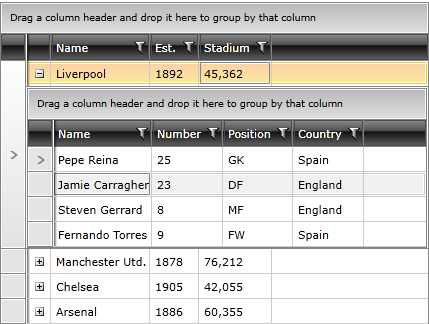
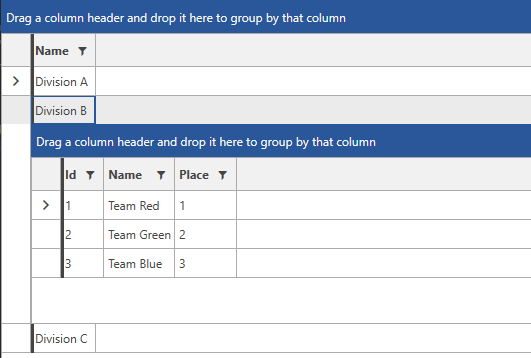
GridView: Updated RowDetailsTemplate article.

diff --git a/controls/radgridview/row-details/template.md b/controls/radgridview/row-details/template.md
@@ -12,28 +12,33 @@ position: 1
 
 The __Row Details__ template is defined through the __RowDetailsTemplate__ property of the __RadGridView__.
 
->tip To learn how to manage the displaying of the __Row Details__ read [this topic]({%slug radgridview-row-details-visibility%}).
+>tip To learn how to manage the displaying of the __Row Details__, read [this topic]({%slug radgridview-row-details-visibility%}).
 	
 ## Basic RowDetails Template
 
-Here is an example for a basic row details template (__Example 1__). You can observe the result in __Figure 1__.
+__Example 1__ shows a basic row details template. You can observe the result in __Figure 1__.
 		
+> The next examples use the __Team__, __Division__ and __DivisionService__ classes defined in Examples 1, 2 and 3 in the following [article]({%slug gridview-building-hierarchical-grid-view%}). The setting of the ItemsSource in Examples 1 and 2 is shown in __Example 3__.
 
-#### __[XAML] Example 1: Definition of Basic RowDetails Template__
+#### __[XAML] Example 1: Basic RowDetails Template__
 
 {{region xaml-radgridview-row-details-template_0}}
-	<telerik:RadGridView x:Name="radGridView"
-	                 RowDetailsVisibilityMode="VisibleWhenSelected">
-	    <telerik:RadGridView.RowDetailsTemplate>
-	        <DataTemplate>
-	            <StackPanel Orientation="Horizontal"
-	                Margin="10,10,10,10">
-	                <TextBlock Text="Stadium Capacity: " />
-	                <TextBlock Text="{Binding StadiumCapacity}" />
-	            </StackPanel>
-	        </DataTemplate>
-	    </telerik:RadGridView.RowDetailsTemplate>
-	    <!--...-->
+	<telerik:RadGridView Name="rowTemplateRadGridView"
+						 AutoGenerateColumns="False"
+						 GroupRenderMode="Flat"
+						 RowDetailsVisibilityMode="VisibleWhenSelected">
+		<telerik:RadGridView.Columns>
+			<telerik:GridViewDataColumn DataMemberBinding="{Binding Name}"/>
+		</telerik:RadGridView.Columns>
+
+		<telerik:RadGridView.RowDetailsTemplate>
+			<DataTemplate>
+				<StackPanel Orientation="Horizontal" Margin="10">
+					<TextBlock Text="ID: " />
+					<TextBlock Text="{Binding Id}" />
+				</StackPanel>
+			</DataTemplate>
+		</telerik:RadGridView.RowDetailsTemplate>
 	</telerik:RadGridView>
 {{endregion}}
 
@@ -43,49 +48,61 @@ __Figure 1:__ Displays the result of the applied __Basic RowDetails Template__.
 
 ## Complex RowDetails Template
 
-Here is an example for a complex row details template (__Example 2__). You can observe the result in __Figure 1__.
+__Example 2__ shows a complex row details template, which contains another RadGridView. You can observe the result in __Figure 2__.
 
 #### __[XAML] Example 2: Definition of Complex RowDetails Template__
 
 {{region xaml-radgridview-row-details-template_1}}
-	<Grid>
-	    <Grid.Resources>
-	        <my:MyViewModel x:Key="MyViewModel"/>
-	        <DataTemplate x:Key="RowDetailsTemplate">
-	            <telerik:RadGridView Name="playersGrid" 
-	                        ItemsSource="{Binding Players}" 
-	                        AutoGenerateColumns="False">
-	                <telerik:RadGridView.Columns>
-	                    <telerik:GridViewDataColumn DataMemberBinding="{Binding Name}"/>
-	                    <telerik:GridViewDataColumn DataMemberBinding="{Binding Number}"/>
-	                    <telerik:GridViewDataColumn DataMemberBinding="{Binding Position}"/>
-	                    <telerik:GridViewDataColumn DataMemberBinding="{Binding Country}"/>
-	                </telerik:RadGridView.Columns>
-	            </telerik:RadGridView>
-	        </DataTemplate>
-	    </Grid.Resources>
-	    <telerik:RadGridView Grid.Row="0" 
-	                Name="clubsGrid" 
-	                ItemsSource="{Binding Clubs, Source={StaticResource MyViewModel}}"
-	                AutoGenerateColumns="False"
-	                RowDetailsTemplate="{StaticResource RowDetailsTemplate}"
-	                Margin="5">
-	        <telerik:RadGridView.Columns>
-	            <telerik:GridViewToggleRowDetailsColumn/>
-	            <telerik:GridViewDataColumn DataMemberBinding="{Binding Name}"/>
-	            <telerik:GridViewDataColumn DataMemberBinding="{Binding Established}"
-	                            Header="Est." 
-	                            DataFormatString="{}{0:yyyy}"/>
-	            <telerik:GridViewDataColumn DataMemberBinding="{Binding StadiumCapacity}" 
-	                            Header="Stadium" 
-	                            DataFormatString="{}{0:N0}"/>
-	        </telerik:RadGridView.Columns>
-	    </telerik:RadGridView>
-	</Grid>
+	<telerik:RadGridView Name="rowTemplateRadGridView"
+							AutoGenerateColumns="False"
+							GroupRenderMode="Flat"
+							RowDetailsVisibilityMode="VisibleWhenSelected">
+		<telerik:RadGridView.Columns>
+			<telerik:GridViewDataColumn DataMemberBinding="{Binding Name}"/>
+		</telerik:RadGridView.Columns>
+
+		<telerik:RadGridView.RowDetailsTemplate>
+			<DataTemplate>
+				<telerik:RadGridView Name="playersGrid" 
+									 ItemsSource="{Binding Teams}" 
+									 AutoGenerateColumns="False"
+									 Height="200">
+					<telerik:RadGridView.Columns>
+						<telerik:GridViewDataColumn DataMemberBinding="{Binding Id}"/>
+						<telerik:GridViewDataColumn DataMemberBinding="{Binding Name}"/>
+						<telerik:GridViewDataColumn DataMemberBinding="{Binding Place}"/>
+					</telerik:RadGridView.Columns>
+				</telerik:RadGridView>
+			</DataTemplate>
+		</telerik:RadGridView.RowDetailsTemplate>
+	</telerik:RadGridView>
 {{endregion}}
+
+>important You should specify a Height for the RadGridView in the RowDetailsTemplate. Otherwise the [UI Virtualization]({%slug radgridview-features-ui-virtualization%}) mechanism will be disabled. 
 
 __Figure 2:__ Displays the result of the applied __Complex RowDetails Template__.  
 ![Telerik {{ site.framework_name }} DataGrid-row-details-template-complex](images/gridview-row-details-template-complex.png)
+
+#### __[C#] Example 3: Setting the ItemsSource for Examples 1 and 2__
+
+{{region cs-radgridview-row-details-template_2}}
+	public MainWindow()
+	{
+		InitializeComponent();
+
+		this.rowTemplateRadGridView.ItemsSource = DivisionsService.GetDivisions();
+	}
+{{endregion}}
+
+#### __[VB.NET] Example 3: Setting the ItemsSource for Examples 1 and 2__
+
+{{region vb-radgridview-row-details-template_1}}
+	Public Sub New()
+		InitializeComponent()
+
+		Me.rowTemplateRadGridView.ItemsSource = DivisionsService.GetDivisions()
+	End Sub
+{{endregion}}
 
 ## See Also  
  * [RowDetails Overview]({%slug radgridview-row-details-overview%})  
